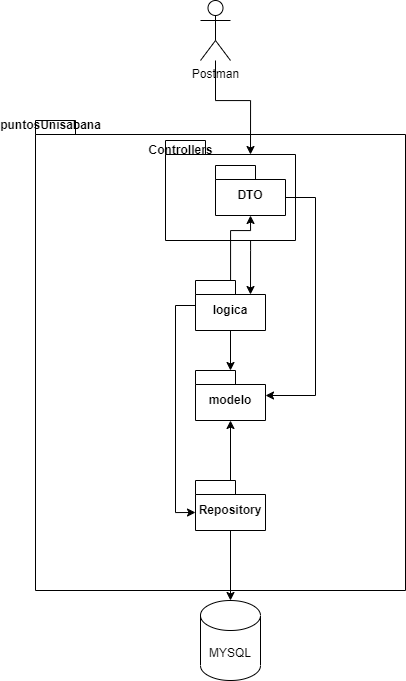
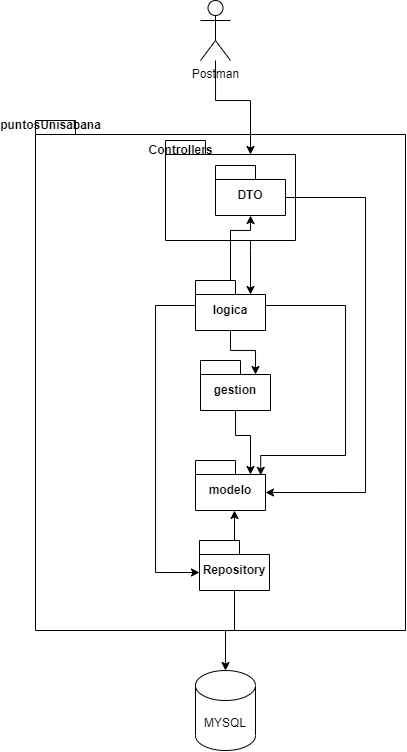
Crear gestion de transacciones, Eliminar imports no utilizados, Actualizar diagrama de paquetes, Eliminar importaciones no usadas

diff --git a/src/main/java/co/edu/unisabana/puntosUnisabana/logica/ClienteLogica.java b/src/main/java/co/edu/unisabana/puntosUnisabana/logica/ClienteLogica.java
@@ -5,14 +5,12 @@ import co.edu.unisabana.puntosUnisabana.controllers.DTO.ClienteDTO;
 import co.edu.unisabana.puntosUnisabana.modelo.BeneficioModelo;
 import co.edu.unisabana.puntosUnisabana.modelo.ClienteModelo;
 import co.edu.unisabana.puntosUnisabana.modelo.PuntosModelo;
-import co.edu.unisabana.puntosUnisabana.modelo.TransaccionModelo;
 import co.edu.unisabana.puntosUnisabana.repository.BeneficioRepository;
 import co.edu.unisabana.puntosUnisabana.repository.ClienteRepository;
 import co.edu.unisabana.puntosUnisabana.repository.PuntosRepository;
-import co.edu.unisabana.puntosUnisabana.repository.TransaccionRepository;
+import co.edu.unisabana.puntosUnisabana.gestion.IGestionClienteTransaccion;
 import org.springframework.stereotype.Service;
 
-import java.time.LocalDate;
 import java.util.List;
 import java.util.NoSuchElementException;
 import java.util.stream.Collectors;
@@ -25,15 +23,19 @@ public class ClienteLogica {
     private final PuntosRepository puntosRepository;
     private final BeneficiosLogica beneficiosLogica;
     private final BeneficioRepository beneficioRepository;
-    private final TransaccionRepository transaccionRepository;
 
-    public ClienteLogica(ClienteRepository clienteRepository, PuntosLogica puntosLogica, PuntosRepository puntosRepository, BeneficiosLogica beneficiosLogica, BeneficioRepository beneficioRepository, TransaccionRepository transaccionRepository) {
+
+    private final IGestionClienteTransaccion gestionClienteTransaccion;
+
+
+
+    public ClienteLogica(ClienteRepository clienteRepository, PuntosLogica puntosLogica, PuntosRepository puntosRepository, BeneficiosLogica beneficiosLogica, BeneficioRepository beneficioRepository, IGestionClienteTransaccion gestionClienteTransaccion) {
         this.clienteRepository = clienteRepository;
         this.puntosLogica = puntosLogica;
         this.puntosRepository = puntosRepository;
         this.beneficiosLogica = beneficiosLogica;
         this.beneficioRepository = beneficioRepository;
-        this.transaccionRepository = transaccionRepository;
+        this.gestionClienteTransaccion= gestionClienteTransaccion;
     }
 
     public List<ClienteModelo> listaClientes() {
@@ -72,7 +74,8 @@ public class ClienteLogica {
             if (verificarPuntos(cedulaCliente, idBeneficio)) {
                 descontarPuntos(cedulaCliente, idBeneficio);
                 guardarBeneficios(cedulaCliente, idBeneficio);
-                transaccion(cedulaCliente, idBeneficio);
+                gestionClienteTransaccion.transaccion(buscarCliente(cedulaCliente), beneficiosLogica.buscarBeneficio(idBeneficio));
+               /* transaccion(cedulaCliente, idBeneficio);*/
             } else throw new IllegalArgumentException("No tiene puntos para ese beneficio");
         } else {
             throw new NoSuchElementException("El cliente no esta registrado en puntos o no existe el beneficio");
@@ -119,14 +122,7 @@ public class ClienteLogica {
         clienteRepository.save(cliente);
     }
 
-    public void transaccion(int cedulaCliente, int idBeneficio) {
-        TransaccionModelo transaccionModelo = new TransaccionModelo();
-        transaccionModelo.setCliente(buscarCliente(cedulaCliente));
-        transaccionModelo.setNombreBeneficio(beneficiosLogica.buscarBeneficio(idBeneficio).getNombreBeneficio());
-        transaccionModelo.setCantidadPuntosGastados(beneficiosLogica.obtenerPuntosBeneficio(idBeneficio));
-        transaccionModelo.setFechaTransaccion(LocalDate.now());
-        transaccionRepository.save(transaccionModelo);
-    }
+
 
     public void existeClienteEnPuntos(int cedula) {
         ClienteModelo cliente = buscarCliente(cedula);

diff --git a/src/main/java/co/edu/unisabana/puntosUnisabana/gestion/GestionClienteTransaccion.java b/src/main/java/co/edu/unisabana/puntosUnisabana/gestion/GestionClienteTransaccion.java
@@ -1,0 +1,35 @@
+package co.edu.unisabana.puntosUnisabana.gestion;
+
+import co.edu.unisabana.puntosUnisabana.modelo.BeneficioModelo;
+import co.edu.unisabana.puntosUnisabana.modelo.ClienteModelo;
+import co.edu.unisabana.puntosUnisabana.modelo.TransaccionModelo;
+import co.edu.unisabana.puntosUnisabana.repository.TransaccionRepository;
+import org.springframework.stereotype.Component;
+
+import java.time.LocalDate;
+
+
+
+@Component
+public class GestionClienteTransaccion implements IGestionClienteTransaccion
+{
+
+
+    private final TransaccionRepository transaccionRepository;
+
+    public GestionClienteTransaccion(TransaccionRepository transaccionRepository) {
+
+        this.transaccionRepository = transaccionRepository;
+    }
+
+    @Override
+    public void transaccion(ClienteModelo cliente, BeneficioModelo beneficio)
+    {
+        TransaccionModelo transaccionModelo = new TransaccionModelo();
+        transaccionModelo.setCliente(cliente);
+        transaccionModelo.setNombreBeneficio(beneficio.getNombreBeneficio());
+        transaccionModelo.setCantidadPuntosGastados(beneficio.getPuntosRequeridos());
+        transaccionModelo.setFechaTransaccion(LocalDate.now());
+        transaccionRepository.save(transaccionModelo);
+    }
+}

diff --git a/src/main/java/co/edu/unisabana/puntosUnisabana/controllers/ClienteController.java b/src/main/java/co/edu/unisabana/puntosUnisabana/controllers/ClienteController.java
@@ -3,7 +3,6 @@ package co.edu.unisabana.puntosUnisabana.controllers;
 import co.edu.unisabana.puntosUnisabana.controllers.DTO.ClienteDTO;
 import co.edu.unisabana.puntosUnisabana.controllers.DTO.RespuestaDTO;
 import co.edu.unisabana.puntosUnisabana.logica.ClienteLogica;
-import co.edu.unisabana.puntosUnisabana.modelo.ClienteModelo;
 import org.springframework.web.bind.annotation.*;
 
 import java.util.List;

diff --git a/src/main/java/co/edu/unisabana/puntosUnisabana/gestion/IGestionClienteTransaccion.java b/src/main/java/co/edu/unisabana/puntosUnisabana/gestion/IGestionClienteTransaccion.java
@@ -1,0 +1,10 @@
+package co.edu.unisabana.puntosUnisabana.gestion;
+
+import co.edu.unisabana.puntosUnisabana.modelo.BeneficioModelo;
+import co.edu.unisabana.puntosUnisabana.modelo.ClienteModelo;
+
+
+public interface IGestionClienteTransaccion {
+
+    void transaccion(ClienteModelo cliente, BeneficioModelo beneficio);
+}

diff --git a/src/main/java/co/edu/unisabana/puntosUnisabana/controllers/BeneficioController.java b/src/main/java/co/edu/unisabana/puntosUnisabana/controllers/BeneficioController.java
@@ -4,7 +4,7 @@ import co.edu.unisabana.puntosUnisabana.controllers.DTO.RespuestaDTO;
 import co.edu.unisabana.puntosUnisabana.logica.BeneficiosLogica;
 import org.springframework.web.bind.annotation.*;
 
-import java.util.Collection;
+
 import java.util.List;
 
 @RestController

diff --git a/src/main/java/co/edu/unisabana/puntosUnisabana/controllers/DTO/ClienteDTO.java b/src/main/java/co/edu/unisabana/puntosUnisabana/controllers/DTO/ClienteDTO.java
@@ -1,6 +1,6 @@
 package co.edu.unisabana.puntosUnisabana.controllers.DTO;
 
-import co.edu.unisabana.puntosUnisabana.modelo.BeneficioModelo;
+
 import lombok.AllArgsConstructor;
 import lombok.Data;
 import lombok.NoArgsConstructor;

diff --git a/src/main/java/co/edu/unisabana/puntosUnisabana/controllers/DTO/TransaccionDTO.java b/src/main/java/co/edu/unisabana/puntosUnisabana/controllers/DTO/TransaccionDTO.java
@@ -1,6 +1,6 @@
 package co.edu.unisabana.puntosUnisabana.controllers.DTO;
 
-import co.edu.unisabana.puntosUnisabana.modelo.ClienteModelo;
+
 import lombok.AllArgsConstructor;
 import lombok.Data;
 import lombok.NoArgsConstructor;

diff --git a/src/main/java/co/edu/unisabana/puntosUnisabana/controllers/DTO/RespuestaDTO.java b/src/main/java/co/edu/unisabana/puntosUnisabana/controllers/DTO/RespuestaDTO.java
@@ -1,7 +1,6 @@
 package co.edu.unisabana.puntosUnisabana.controllers.DTO;
 
-import lombok.AllArgsConstructor;
-import lombok.Data;
+
 import lombok.Getter;
 import lombok.Setter;
 
